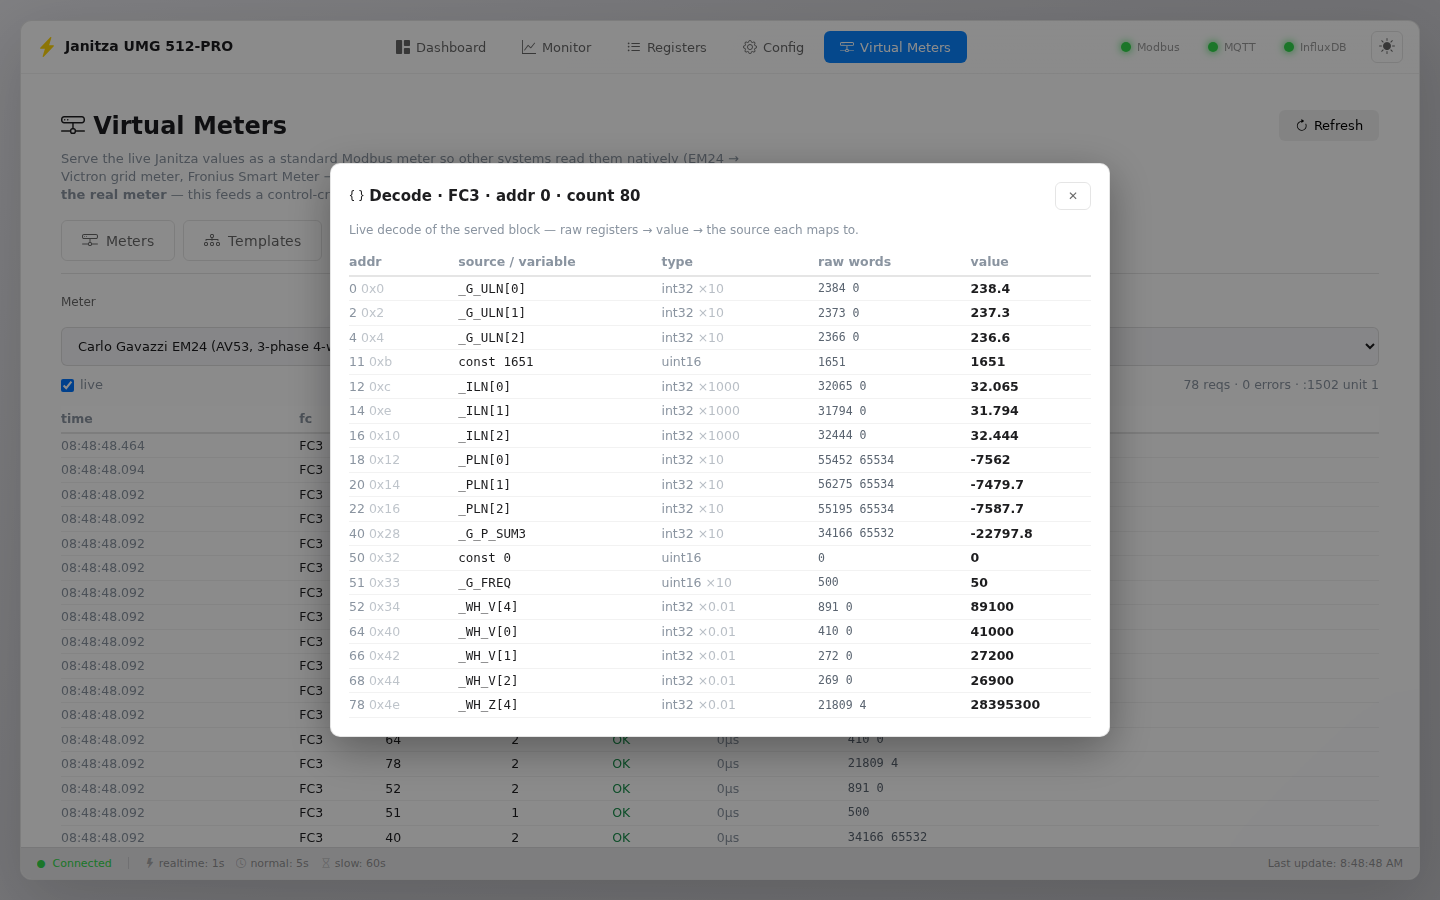
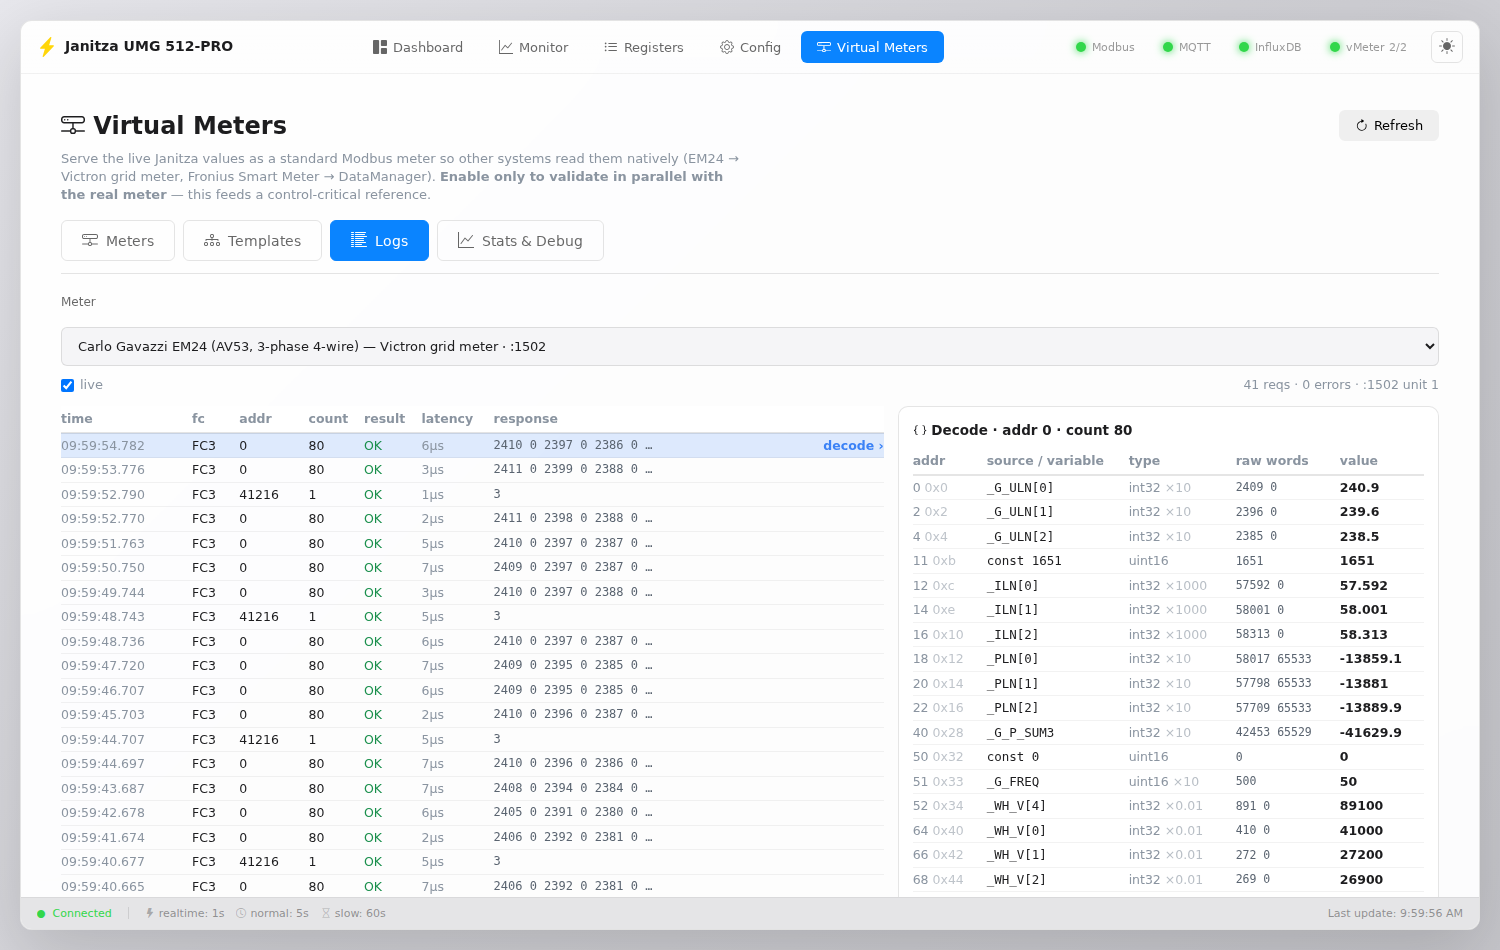
feat(ui): logs decode side-panel + discoverability + vMeter status pill
Logs tab: clicking a row now decodes into a docked side panel to the
right of the table (the row stays highlighted across live refreshes)
instead of a modal — better for repeated inspection. Rows get a hover
highlight and a `decode ›` affordance so the action is discoverable, and
exception (EXC) rows are tinted red for fast map-mismatch debugging.

Header: a `vMeter N/M` status pill next to Modbus/MQTT/InfluxDB shows how
many meters are online/total (green all ok · grey some stale · red any
down), fed from /health; click opens the Virtual Meters page. Hidden when
no meters are configured.

Removed the now-unused decode modal. Cache-buster app.js?v=vm12.

diff --git a/ui/js/app.js b/ui/js/app.js
@@ -682,6 +682,14 @@ class JanitzaMonitor {
             <div data-vmpanel="meters">${addBar}${cards}</div>
             <div data-vmpanel="templates" hidden>${tmplSection}</div>
             <div data-vmpanel="logs" hidden>
+              <style>
+                .vm-log-row{cursor:pointer;}
+                .vm-log-row:hover{background:rgba(59,130,246,.08);}
+                .vm-log-row.active{background:rgba(59,130,246,.16);}
+                .vm-log-row.err{background:rgba(192,57,43,.06);}
+                .vm-log-row .vm-view{opacity:0;color:#3b82f6;font-weight:600;white-space:nowrap;transition:opacity .1s;}
+                .vm-log-row:hover .vm-view,.vm-log-row.active .vm-view{opacity:1;}
+              </style>
               <div style="display:flex;gap:10px;align-items:center;margin-bottom:12px;flex-wrap:wrap;">
                 <label class="form-label">Meter</label>
                 <select id="vmLogMeter" class="input" style="min-width:240px;">${meterOpts}</select>
@@ -689,7 +697,15 @@ class JanitzaMonitor {
                   <input type="checkbox" id="vmLogLive" checked> live</label>
                 <span id="vmLogMeta" style="color:#8a94a0;font-size:12.5px;margin-left:auto;"></span>
               </div>
-              <div id="vmLogContent"><p style="color:#8a94a0;">Select a running meter.</p></div>
+              <div style="display:flex;gap:14px;align-items:flex-start;flex-wrap:wrap;">
+                <div id="vmLogContent" style="flex:2 1 380px;min-width:320px;"><p style="color:#8a94a0;">Select a running meter.</p></div>
+                <aside id="vmDecodePanel" style="flex:1 1 320px;min-width:300px;position:sticky;top:8px;align-self:flex-start;">
+                  <div class="settings-card" style="padding:16px;color:#8a94a0;">
+                    <div style="font-size:13px;margin-bottom:4px;"><i class="bi bi-braces"></i> Decode</div>
+                    <div style="font-size:12.5px;line-height:1.5;">Click any row on the left to decode that Modbus read — raw registers → value → the source variable each maps to.</div>
+                  </div>
+                </aside>
+              </div>
             </div>
             <div data-vmpanel="stats" hidden>
               <div style="display:flex;gap:10px;align-items:center;margin-bottom:12px;flex-wrap:wrap;">
@@ -856,13 +872,24 @@ class JanitzaMonitor {
         if (!sel || !out) return;
         const id = sel.value;
         if (!id) { out.innerHTML = '<p style="color:#8a94a0;">No running meter selected.</p>'; return; }
-        if (!out._decodeWired) {                  // delegated: click a row → decode modal
+        if (this._vmLogLastId !== id) {           // meter changed → drop stale decode selection
+            this._vmLogLastId = id;
+            this._vmDecodeSel = null;
+            const panel = document.getElementById('vmDecodePanel');
+            if (panel) panel.innerHTML = `<div class="settings-card" style="padding:16px;color:#8a94a0;">
+                <div style="font-size:13px;margin-bottom:4px;"><i class="bi bi-braces"></i> Decode</div>
+                <div style="font-size:12.5px;line-height:1.5;">Click any row on the left to decode that Modbus read — raw registers → value → the source variable each maps to.</div></div>`;
+        }
+        if (!out._decodeWired) {                  // delegated: click a row → decode in side panel
             out._decodeWired = true;
             out.addEventListener('click', (e) => {
                 const row = e.target.closest('.vm-log-row');
                 if (!row) return;
+                out.querySelectorAll('.vm-log-row.active').forEach(r => r.classList.remove('active'));
+                row.classList.add('active');
                 const cur = document.getElementById('vmLogMeter');
-                this.showDecodeModal(cur ? cur.value : id, +row.dataset.addr, +row.dataset.count);
+                this._vmDecodeSel = { addr: +row.dataset.addr, count: +row.dataset.count };
+                this.renderDecodeInto(cur ? cur.value : id, this._vmDecodeSel.addr, this._vmDecodeSel.count);
             });
         }
         const load = async () => {
@@ -879,20 +906,26 @@ class JanitzaMonitor {
                 const resp = q.resp ? q.resp.slice(0, 6).join(' ') + (q.count > 6 ? ' …' : '') : '—';
                 const res = q.err ? '<span style="color:#c0392b;font-weight:600;">EXC</span>'
                                   : '<span style="color:#1a8f4c;">OK</span>';
-                return `<tr class="vm-log-row" data-addr="${q.addr}" data-count="${q.count}" title="click to decode this read" style="border-bottom:1px solid var(--border-light);cursor:pointer;">
+                return `<tr class="vm-log-row${q.err ? ' err' : ''}" data-addr="${q.addr}" data-count="${q.count}" title="click to decode this read" style="border-bottom:1px solid var(--border-light);">
                   <td style="padding:3px 10px 3px 0;color:#8a94a0;font-variant-numeric:tabular-nums;">${t}</td>
                   <td style="padding:3px 10px 3px 0;">FC${q.fc}</td>
                   <td style="padding:3px 10px 3px 0;font-variant-numeric:tabular-nums;">${q.addr}</td>
                   <td style="padding:3px 10px 3px 0;font-variant-numeric:tabular-nums;">${q.count}</td>
                   <td style="padding:3px 10px 3px 0;">${res}</td>
                   <td style="padding:3px 10px 3px 0;color:#8a94a0;font-variant-numeric:tabular-nums;">${q.lat_us}µs</td>
-                  <td style="padding:3px 0;font-family:monospace;font-size:12px;color:#5a6470;">${this._esc(resp)}</td></tr>`;
+                  <td style="padding:3px 10px 3px 0;font-family:monospace;font-size:12px;color:#5a6470;">${this._esc(resp)}</td>
+                  <td style="padding:3px 0;text-align:right;"><span class="vm-view">decode ›</span></td></tr>`;
             }).join('');
-            out.innerHTML = `<div style="max-height:60vh;overflow:auto;">
+            out.innerHTML = `<div style="max-height:62vh;overflow:auto;">
               <table style="width:100%;font-size:12.5px;border-collapse:collapse;">
                 <thead><tr style="text-align:left;color:#8a94a0;border-bottom:2px solid var(--border);position:sticky;top:0;background:var(--bg-secondary);">
-                  <th style="padding:4px 10px 4px 0;">time</th><th>fc</th><th>addr</th><th>count</th><th>result</th><th>latency</th><th>response</th>
-                </tr></thead><tbody>${rows || '<tr><td colspan="7" style="color:#8a94a0;padding:8px 0;">No queries yet.</td></tr>'}</tbody></table></div>`;
+                  <th style="padding:4px 10px 4px 0;">time</th><th>fc</th><th>addr</th><th>count</th><th>result</th><th>latency</th><th>response</th><th></th>
+                </tr></thead><tbody>${rows || '<tr><td colspan="8" style="color:#8a94a0;padding:8px 0;">No queries yet.</td></tr>'}</tbody></table></div>`;
+            // keep the decoded row highlighted across live refreshes
+            if (this._vmDecodeSel) {
+                const sel = out.querySelector(`.vm-log-row[data-addr="${this._vmDecodeSel.addr}"][data-count="${this._vmDecodeSel.count}"]`);
+                if (sel) sel.classList.add('active');
+            }
         };
         await load();
         this._stopVmPolls();
@@ -976,49 +1009,36 @@ class JanitzaMonitor {
     }
 
     // ── Decode a logged read: raw words → value → the source variable ──────
-    async showDecodeModal(id, addr, count) {
-        if (!id || !Number.isFinite(addr)) return;
-        let d;
-        try {
-            d = await (await fetch(`/api/virtual-meters/${encodeURIComponent(id)}/decode?addr=${addr}&count=${count}`)).json();
-        } catch (e) { this.showToast('error', 'Decode failed', `${addr}/${count}`); return; }
-        if (d.error) { this.showToast('error', 'Decode', d.error); return; }
+    _buildDecodeBody(d) {
         const rows = (d.registers || []).map(r => {
             const words = (r.words || []).join(' ');
             const val = (r.value === null || r.value === undefined) ? '—' : r.value;
             const scale = (r.scale !== 1) ? ` <span style="opacity:.6">×${r.scale}</span>` : '';
             return `<tr style="border-bottom:1px solid var(--border-light);">
-              <td style="padding:3px 12px 3px 0;font-variant-numeric:tabular-nums;color:#8a94a0;white-space:nowrap;">${r.addr} <span style="opacity:.55;">0x${(r.addr).toString(16)}</span></td>
-              <td style="padding:3px 12px 3px 0;font-family:monospace;">${this._esc(r.source)}</td>
-              <td style="padding:3px 12px 3px 0;color:#8a94a0;white-space:nowrap;">${this._esc(r.type)}${scale}</td>
-              <td style="padding:3px 12px 3px 0;font-family:monospace;font-size:11.5px;color:#5a6470;">${this._esc(words)}</td>
+              <td style="padding:3px 10px 3px 0;font-variant-numeric:tabular-nums;color:#8a94a0;white-space:nowrap;">${r.addr} <span style="opacity:.55;">0x${(r.addr).toString(16)}</span></td>
+              <td style="padding:3px 10px 3px 0;font-family:monospace;">${this._esc(r.source)}</td>
+              <td style="padding:3px 10px 3px 0;color:#8a94a0;white-space:nowrap;">${this._esc(r.type)}${scale}</td>
+              <td style="padding:3px 10px 3px 0;font-family:monospace;font-size:11.5px;color:#5a6470;">${this._esc(words)}</td>
               <td style="padding:3px 0;font-weight:600;font-variant-numeric:tabular-nums;">${this._esc(val)}</td></tr>`;
         }).join('');
-        const body = `<p style="color:#8a94a0;font-size:12px;margin:0 0 10px;">Live decode of the served block — raw registers → value → the source each maps to.</p>
-          <div style="overflow:auto;"><table style="width:100%;border-collapse:collapse;font-size:12.5px;">
+        return `<div style="overflow:auto;"><table style="width:100%;border-collapse:collapse;font-size:12.5px;">
             <thead><tr style="text-align:left;color:#8a94a0;border-bottom:2px solid var(--border);">
-              <th style="padding:4px 12px 4px 0;">addr</th><th>source / variable</th><th>type</th><th>raw words</th><th>value</th>
+              <th style="padding:4px 10px 4px 0;">addr</th><th>source / variable</th><th>type</th><th>raw words</th><th>value</th>
             </tr></thead><tbody>${rows || '<tr><td colspan="5" style="color:#8a94a0;padding:8px 0;">No template registers map into this range.</td></tr>'}</tbody></table></div>`;
-        this._showModal(`Decode · FC3 · addr ${addr} · count ${count}`, body);
     }
 
-    _showModal(title, html) {
-        const old = document.getElementById('vmDecodeModal');
-        if (old) old.remove();
-        const ov = document.createElement('div');
-        ov.id = 'vmDecodeModal';
-        ov.style.cssText = 'position:fixed;inset:0;background:rgba(0,0,0,.45);display:flex;align-items:center;justify-content:center;z-index:9999;';
-        ov.innerHTML = `<div style="background:var(--bg-secondary);border:1px solid var(--border);border-radius:10px;max-width:780px;width:92%;max-height:82vh;overflow:auto;padding:18px;box-shadow:0 12px 44px rgba(0,0,0,.35);">
-            <div style="display:flex;justify-content:space-between;align-items:center;margin-bottom:12px;gap:12px;">
-              <h3 style="margin:0;font-size:15px;"><i class="bi bi-braces"></i> ${this._esc(title)}</h3>
-              <button class="btn btn-ghost btn-sm" id="vmDecodeClose" aria-label="Close">✕</button>
-            </div>${html}</div>`;
-        document.body.appendChild(ov);
-        const close = () => ov.remove();
-        ov.addEventListener('click', (e) => { if (e.target === ov) close(); });
-        ov.querySelector('#vmDecodeClose').addEventListener('click', close);
-        const esc = (e) => { if (e.key === 'Escape') { close(); document.removeEventListener('keydown', esc); } };
-        document.addEventListener('keydown', esc);
+    async renderDecodeInto(id, addr, count) {
+        const panel = document.getElementById('vmDecodePanel');
+        if (!panel || !id || !Number.isFinite(addr)) return;
+        const wrap = (inner) => `<div class="settings-card" style="padding:14px;">
+            <h4 style="margin:0 0 8px;font-size:13.5px;"><i class="bi bi-braces"></i> Decode · addr ${addr} · count ${count}</h4>${inner}</div>`;
+        panel.innerHTML = wrap('<p style="color:#8a94a0;font-size:12.5px;margin:0;">Decoding…</p>');
+        let d;
+        try {
+            d = await (await fetch(`/api/virtual-meters/${encodeURIComponent(id)}/decode?addr=${addr}&count=${count}`)).json();
+        } catch (e) { panel.innerHTML = wrap('<p style="color:#c0392b;font-size:12.5px;margin:0;">Decode failed.</p>'); return; }
+        if (d.error) { panel.innerHTML = wrap(`<p style="color:#8a94a0;font-size:12.5px;margin:0;">${this._esc(d.error)}</p>`); return; }
+        panel.innerHTML = wrap(this._buildDecodeBody(d));
     }
 
     async openTemplateEditor(templateId) {
@@ -1309,6 +1329,8 @@ class JanitzaMonitor {
         document.getElementById('statusModbus').addEventListener('click', () => this.showStatusDetail('modbus'));
         document.getElementById('statusMqtt').addEventListener('click', () => this.showStatusDetail('mqtt'));
         document.getElementById('statusInflux').addEventListener('click', () => this.showStatusDetail('influxdb'));
+        const vmPill = document.getElementById('statusVmeter');
+        if (vmPill) vmPill.addEventListener('click', () => this.navigateTo('vmeters'));
 
         // Global keyboard shortcuts
         document.addEventListener('keydown', (e) => this.handleKeyboardShortcuts(e));
@@ -1452,6 +1474,28 @@ class JanitzaMonitor {
         }
     }
 
+    async _updateVmeterPill() {
+        const pill = document.getElementById('statusVmeter');
+        if (!pill) return;
+        let h;
+        try { h = await (await fetch('/health')).json(); } catch (e) { return; }
+        const total = h.enabled_meters || 0;
+        if (total === 0) { pill.hidden = true; return; }   // no virtual meters → hide the pill
+        pill.hidden = false;
+        const meters = h.meters || [];
+        const online = meters.filter(m => m.state === 'ok').length;
+        const down = meters.filter(m => m.state === 'down').length;
+        const stale = total - online - down;
+        const cnt = document.getElementById('vmeterCount');
+        if (cnt) cnt.textContent = `${online}/${total}`;
+        pill.classList.remove('connected', 'disconnected', 'disabled');
+        if (down > 0) pill.classList.add('disconnected');        // red — a meter is genuinely down
+        else if (online === total) pill.classList.add('connected'); // green — all serving + fresh
+        else pill.classList.add('disabled');                     // grey — some stale (source fail-safe)
+        pill.title = `Virtual meters: ${online} ok` + (stale ? `, ${stale} stale` : '')
+            + (down ? `, ${down} down` : '') + ` of ${total} — click to open`;
+    }
+
     async loadStatus() {
         try {
             const response = await fetch('/api/status');
@@ -1492,6 +1536,8 @@ class JanitzaMonitor {
                     statusInflux.classList.toggle('disconnected', !influx.connected);
                 }
             }
+
+            this._updateVmeterPill();
 
             // Update stats bar values
             const statRegisters = document.getElementById('statRegisters');

diff --git a/ui/templates/index.html b/ui/templates/index.html
@@ -69,6 +69,10 @@
                         <span class="status-dot"></span>
                         <span class="status-label">InfluxDB</span>
                     </button>
+                    <button class="status-item clickable" id="statusVmeter" title="Virtual meters online / total — click to open" hidden>
+                        <span class="status-dot"></span>
+                        <span class="status-label">vMeter <span id="vmeterCount">0/0</span></span>
+                    </button>
                 </div>
                 <div class="theme-toggle" id="themeToggle" title="Toggle theme">
                     <i class="bi bi-moon-fill"></i>
@@ -833,6 +837,6 @@
         </div>
     </div>
 
-    <script src="/static/js/app.js?v=vm11"></script>
+    <script src="/static/js/app.js?v=vm12"></script>
 </body>
 </html>

diff --git a/CHANGELOG.md b/CHANGELOG.md
@@ -10,6 +10,10 @@ Toate modificarile notabile ale proiectului sunt documentate in acest fisier.
 - **Endpoint `/health` constient de metere** - 200 pentru ok/degraded, 503 doar cand un contor activat e `down` (crash/pornire esuata). Healthcheck-ul Docker reflecta acum starea meterelor, nu doar „e serverul pornit". O sursa stale = degraded (200), fail-safe corect, fara restart inutil.
 - **Stare MQTT completa** - payload-ul `<prefix>/vmeter/<id>/state` include acum conexiunile active (ip:port), req/s, bytes RX/TX, uptime, vechimea datelor, ultima eroare si starea `ok/stale/down` — imaginea completa pentru monitorizare, fara a duplica datele electrice.
 - **Autodiscovery Home Assistant pentru contoare virtuale** - fiecare contor apare automat ca device HA (legat de Janitza prin `via_device`) cu entitati: serving, state, req/s, requests, errors, connections, data age, uptime, last error.
+- **Indicator vMeter in bara de status** - langa Modbus/MQTT/InfluxDB, un pill `vMeter N/M` arata cate contoare sunt online/total (verde toate ok, gri unele stale, rosu vreunul down); click deschide pagina Virtual Meters.
+
+### Imbunatatit
+- **Logs - panou de decodare lateral** - click pe un rand decodeaza in dreapta tabelului (rand evidentiat persistent), in loc de modal; hover + eticheta `decode ›` fac actiunea descoperibila; randurile cu exceptie (EXC) sunt evidentiate subtil rosu pentru depanare rapida a maparilor.
 
 ## [2.1.0] - 2026-06-18
 

diff --git a/docs/VIRTUAL-METER.ro.md b/docs/VIRTUAL-METER.ro.md
@@ -172,7 +172,7 @@ O linie reală din jurnalul de interogări arată astfel:
 
 ![Contoare virtuale — jurnal de interogări live](img/vm-logs.png)
 
-**Decode** — click pe orice rând din jurnal pentru a desface răspunsul Modbus brut în valori inginerești. Modalul parcurge blocul cerut pe baza template-ului și afișează, pentru fiecare registru: `addr` (dec + hex) · `sursa / variabila` asociată (ex. `_G_ULN[0]`, `_PLN[0]`, `const 1651`) · tipul de date · cuvintele brute · valoarea decodată. E cel mai rapid mod de a confirma că o hartă e corectă — citești exact octeții pe care îi citește consumatorul, deja etichetați:
+**Decode** — click pe orice rând din jurnal și se decodează într-un **panou lateral** în dreapta tabelului (rândul rămâne evidențiat). Panoul parcurge blocul cerut pe baza template-ului și afișează, pentru fiecare registru: `addr` (dec + hex) · `sursa / variabila` asociată (ex. `_G_ULN[0]`, `_PLN[0]`, `const 1651`) · tipul de date · cuvintele brute · valoarea decodată. E cel mai rapid mod de a confirma că o hartă e corectă — citești exact octeții pe care îi citește consumatorul, deja etichetați:
 
 ![Contoare virtuale — decodarea unei interogări](img/vm-decode.png)
 

diff --git a/docs/VIRTUAL-METER.md b/docs/VIRTUAL-METER.md
@@ -157,7 +157,7 @@ A real query-log line looks like:
 
 ![Virtual Meters — live query log](img/vm-logs.png)
 
-**Decode** — click any log row to expand the raw Modbus response into engineering values. The modal walks the requested block against the template and shows, per register: `addr` (dec + hex) · the bound `source / variable` (e.g. `_G_ULN[0]`, `_PLN[0]`, `const 1651`) · data type · raw words · decoded value. This is the fastest way to confirm a map is correct — you read the same bytes the consumer reads, already labelled:
+**Decode** — click any log row and it decodes in a **side panel** to the right of the table (the row stays highlighted). The panel walks the requested block against the template and shows, per register: `addr` (dec + hex) · the bound `source / variable` (e.g. `_G_ULN[0]`, `_PLN[0]`, `const 1651`) · data type · raw words · decoded value. This is the fastest way to confirm a map is correct — you read the same bytes the consumer reads, already labelled:
 
 ![Virtual Meters — decode a query](img/vm-decode.png)
 
